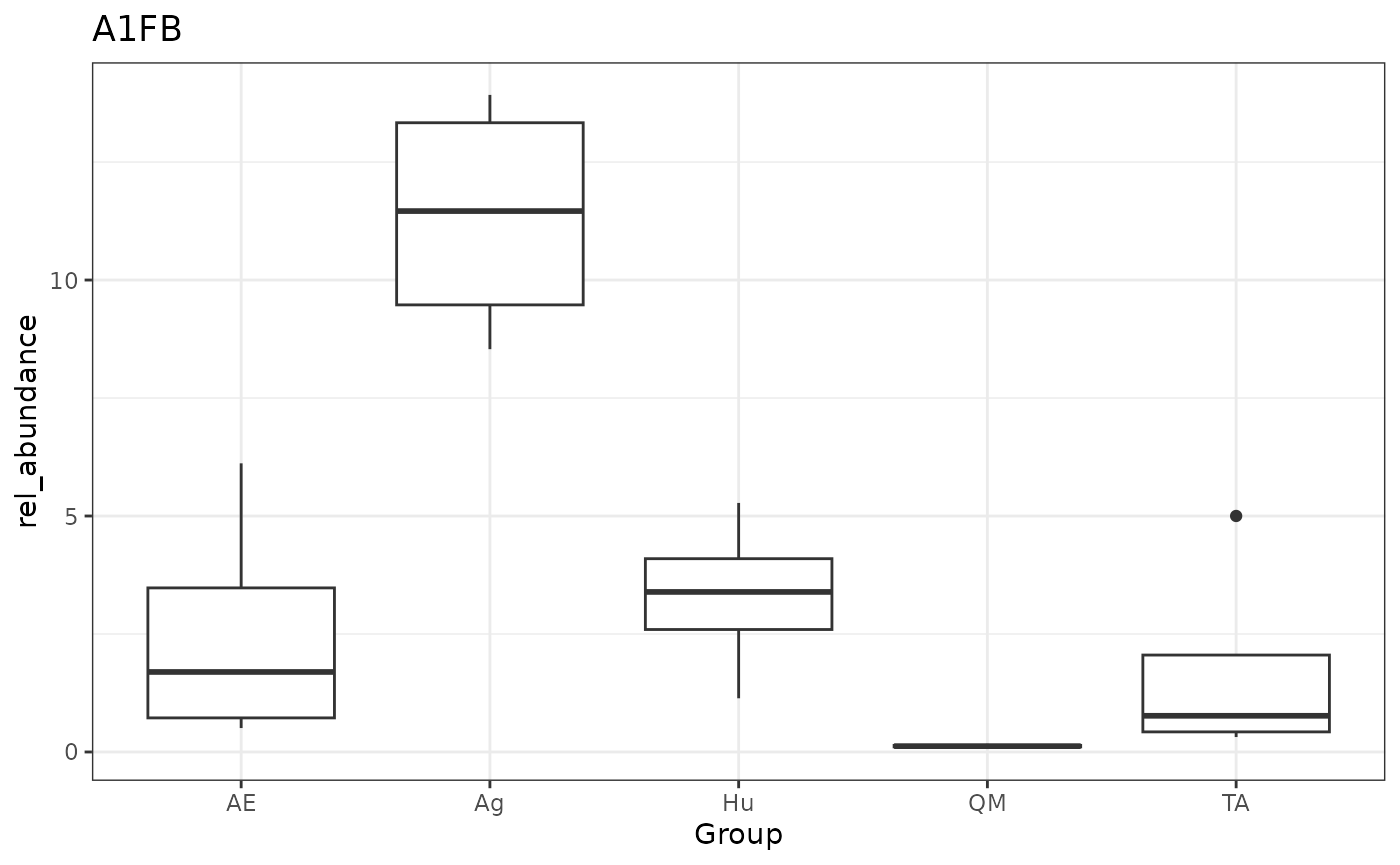
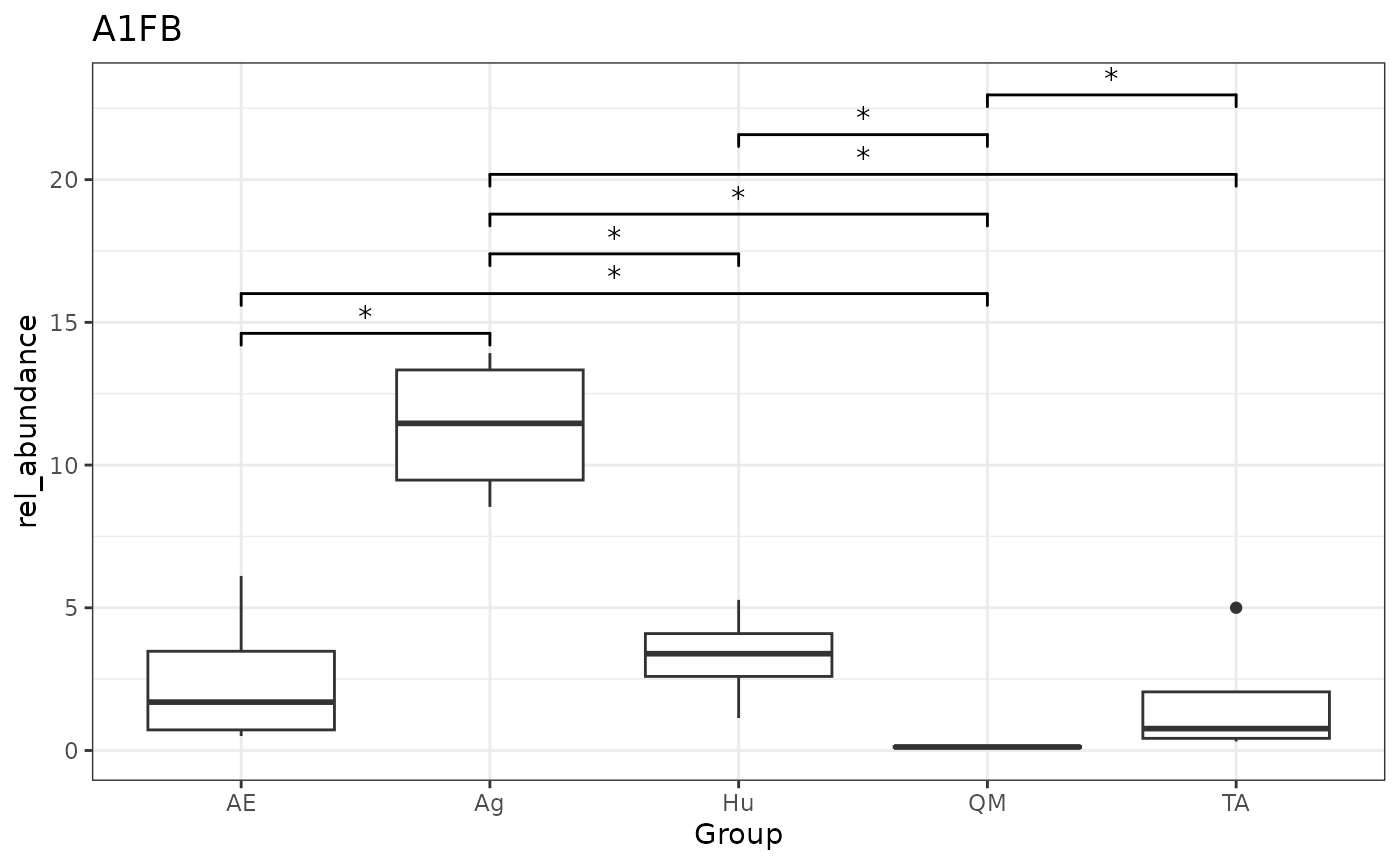
Deploying to gh-pages from @ ellieanderson/sugaR@e1825af322b173fe46dbe8e927952e48d320fb7a 🚀

diff --git a/articles/basic_flow.html b/articles/basic_flow.html
@@ -725,10 +725,7 @@ present</strong> in the sample. Here, that would be the column
 <span><span class="co">#&gt; </span></span>
 <span><span class="co">#&gt; </span></span>
 <span><span class="co">#&gt; </span></span>
-<span><span class="co">#&gt; $Plot</span></span>
-<span><span class="co">#&gt; Warning: Computation failed in `stat_signif()`.</span></span>
-<span><span class="co">#&gt; Caused by error in `if (scales$x$map(comp[1]) == data$group[1] | manual) ...`:</span></span>
-<span><span class="co">#&gt; <span style="color: #BBBB00;">!</span> missing value where TRUE/FALSE needed</span></span></code></pre></div>
+<span><span class="co">#&gt; $Plot</span></span></code></pre></div>
 <p><img src="basic_flow_files/figure-html/unnamed-chunk-7-1.png" width="700"></p>
 <pre><code><span><span class="co">#&gt; </span></span>
 <span><span class="co">#&gt; $Pairwise</span></span>
@@ -757,10 +754,7 @@ present</strong> in the sample. Here, that would be the column
 <span><span class="co">#&gt; </span></span>
 <span><span class="co">#&gt; </span></span>
 <span><span class="co">#&gt; </span></span>
-<span><span class="co">#&gt; $Plot</span></span>
-<span><span class="co">#&gt; Warning: Computation failed in `stat_signif()`.</span></span>
-<span><span class="co">#&gt; Caused by error in `if (scales$x$map(comp[1]) == data$group[1] | manual) ...`:</span></span>
-<span><span class="co">#&gt; <span style="color: #BBBB00;">!</span> missing value where TRUE/FALSE needed</span></span></code></pre>
+<span><span class="co">#&gt; $Plot</span></span></code></pre>
 <p><img src="basic_flow_files/figure-html/unnamed-chunk-7-2.png" width="700"></p>
 <pre><code><span><span class="co">#&gt; </span></span>
 <span><span class="co">#&gt; $Pairwise</span></span>
@@ -793,10 +787,7 @@ present</strong> in the sample. Here, that would be the column
 <span><span class="co">#&gt; </span></span>
 <span><span class="co">#&gt; </span></span>
 <span><span class="co">#&gt; </span></span>
-<span><span class="co">#&gt; $Plot</span></span>
-<span><span class="co">#&gt; Warning: Computation failed in `stat_signif()`.</span></span>
-<span><span class="co">#&gt; Caused by error in `if (scales$x$map(comp[1]) == data$group[1] | manual) ...`:</span></span>
-<span><span class="co">#&gt; <span style="color: #BBBB00;">!</span> missing value where TRUE/FALSE needed</span></span></code></pre>
+<span><span class="co">#&gt; $Plot</span></span></code></pre>
 <p><img src="basic_flow_files/figure-html/unnamed-chunk-7-3.png" width="700"></p>
 <pre><code><span><span class="co">#&gt; </span></span>
 <span><span class="co">#&gt; $Pairwise</span></span>
@@ -828,10 +819,7 @@ present</strong> in the sample. Here, that would be the column
 <span><span class="co">#&gt; </span></span>
 <span><span class="co">#&gt; </span></span>
 <span><span class="co">#&gt; </span></span>
-<span><span class="co">#&gt; $Plot</span></span>
-<span><span class="co">#&gt; Warning: Computation failed in `stat_signif()`.</span></span>
-<span><span class="co">#&gt; Caused by error in `if (scales$x$map(comp[1]) == data$group[1] | manual) ...`:</span></span>
-<span><span class="co">#&gt; <span style="color: #BBBB00;">!</span> missing value where TRUE/FALSE needed</span></span></code></pre>
+<span><span class="co">#&gt; $Plot</span></span></code></pre>
 <p><img src="basic_flow_files/figure-html/unnamed-chunk-7-4.png" width="700"></p>
 <pre><code><span><span class="co">#&gt; </span></span>
 <span><span class="co">#&gt; $Pairwise</span></span>
@@ -864,10 +852,7 @@ present</strong> in the sample. Here, that would be the column
 <span><span class="co">#&gt; </span></span>
 <span><span class="co">#&gt; </span></span>
 <span><span class="co">#&gt; </span></span>
-<span><span class="co">#&gt; $Plot</span></span>
-<span><span class="co">#&gt; Warning: Computation failed in `stat_signif()`.</span></span>
-<span><span class="co">#&gt; Caused by error in `if (scales$x$map(comp[1]) == data$group[1] | manual) ...`:</span></span>
-<span><span class="co">#&gt; <span style="color: #BBBB00;">!</span> missing value where TRUE/FALSE needed</span></span></code></pre>
+<span><span class="co">#&gt; $Plot</span></span></code></pre>
 <p><img src="basic_flow_files/figure-html/unnamed-chunk-7-5.png" width="700"></p>
 <pre><code><span><span class="co">#&gt; </span></span>
 <span><span class="co">#&gt; $Pairwise</span></span>
@@ -900,10 +885,7 @@ present</strong> in the sample. Here, that would be the column
 <span><span class="co">#&gt; </span></span>
 <span><span class="co">#&gt; </span></span>
 <span><span class="co">#&gt; </span></span>
-<span><span class="co">#&gt; $Plot</span></span>
-<span><span class="co">#&gt; Warning: Computation failed in `stat_signif()`.</span></span>
-<span><span class="co">#&gt; Caused by error in `if (scales$x$map(comp[1]) == data$group[1] | manual) ...`:</span></span>
-<span><span class="co">#&gt; <span style="color: #BBBB00;">!</span> missing value where TRUE/FALSE needed</span></span></code></pre>
+<span><span class="co">#&gt; $Plot</span></span></code></pre>
 <p><img src="basic_flow_files/figure-html/unnamed-chunk-7-6.png" width="700"></p>
 <pre><code><span><span class="co">#&gt; </span></span>
 <span><span class="co">#&gt; $Pairwise</span></span>
@@ -934,10 +916,7 @@ present</strong> in the sample. Here, that would be the column
 <span><span class="co">#&gt; </span></span>
 <span><span class="co">#&gt; </span></span>
 <span><span class="co">#&gt; </span></span>
-<span><span class="co">#&gt; $Plot</span></span>
-<span><span class="co">#&gt; Warning: Computation failed in `stat_signif()`.</span></span>
-<span><span class="co">#&gt; Caused by error in `if (scales$x$map(comp[1]) == data$group[1] | manual) ...`:</span></span>
-<span><span class="co">#&gt; <span style="color: #BBBB00;">!</span> missing value where TRUE/FALSE needed</span></span></code></pre>
+<span><span class="co">#&gt; $Plot</span></span></code></pre>
 <p><img src="basic_flow_files/figure-html/unnamed-chunk-7-7.png" width="700"></p>
 <pre><code><span><span class="co">#&gt; </span></span>
 <span><span class="co">#&gt; $Pairwise</span></span>
@@ -967,10 +946,7 @@ present</strong> in the sample. Here, that would be the column
 <span><span class="co">#&gt; </span></span>
 <span><span class="co">#&gt; </span></span>
 <span><span class="co">#&gt; </span></span>
-<span><span class="co">#&gt; $Plot</span></span>
-<span><span class="co">#&gt; Warning: Computation failed in `stat_signif()`.</span></span>
-<span><span class="co">#&gt; Caused by error in `if (scales$x$map(comp[1]) == data$group[1] | manual) ...`:</span></span>
-<span><span class="co">#&gt; <span style="color: #BBBB00;">!</span> missing value where TRUE/FALSE needed</span></span></code></pre>
+<span><span class="co">#&gt; $Plot</span></span></code></pre>
 <p><img src="basic_flow_files/figure-html/unnamed-chunk-7-8.png" width="700"></p>
 <pre><code><span><span class="co">#&gt; </span></span>
 <span><span class="co">#&gt; $Pairwise</span></span>
@@ -1047,10 +1023,7 @@ this:</p>
 <span><span class="co">#&gt; </span></span>
 <span><span class="co">#&gt; </span></span>
 <span><span class="co">#&gt; </span></span>
-<span><span class="co">#&gt; $Plot</span></span>
-<span><span class="co">#&gt; Warning: Computation failed in `stat_signif()`.</span></span>
-<span><span class="co">#&gt; Caused by error in `if (scales$x$map(comp[1]) == data$group[1] | manual) ...`:</span></span>
-<span><span class="co">#&gt; <span style="color: #BBBB00;">!</span> missing value where TRUE/FALSE needed</span></span></code></pre></div>
+<span><span class="co">#&gt; $Plot</span></span></code></pre></div>
 <p><img src="basic_flow_files/figure-html/unnamed-chunk-9-1.png" width="700"></p>
 <pre><code><span><span class="co">#&gt; </span></span>
 <span><span class="co">#&gt; $Pairwise</span></span>
